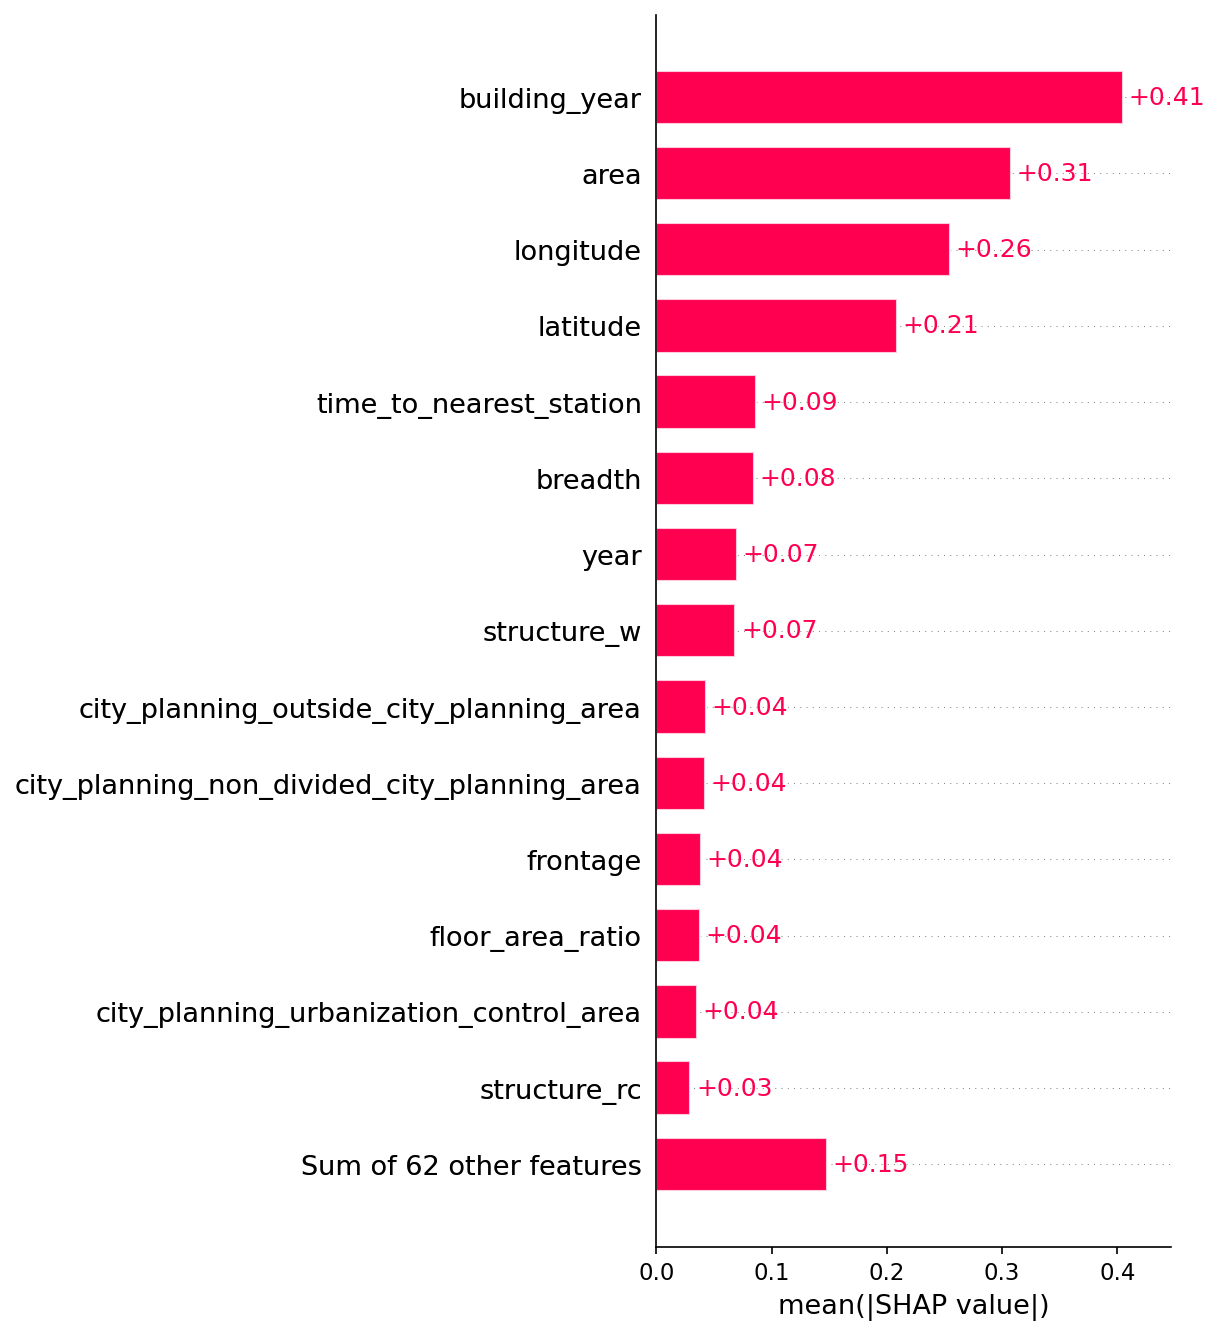
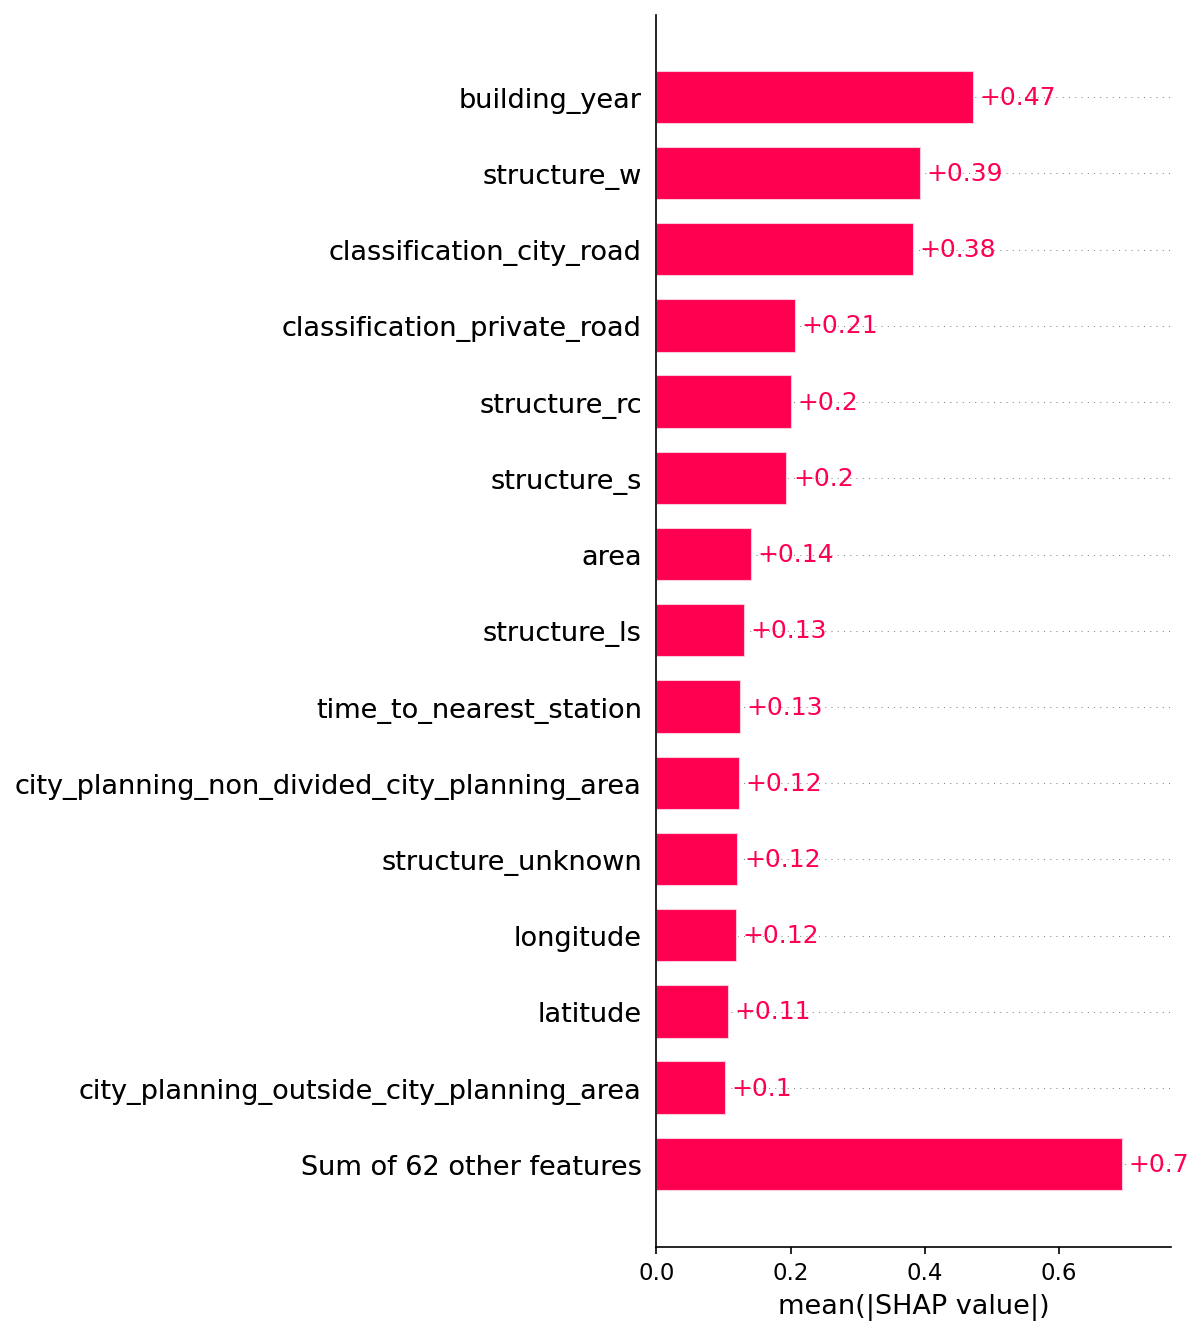
fix: shap erros with svr

diff --git a/src/interpretability/shap_analysis.py b/src/interpretability/shap_analysis.py
@@ -64,12 +64,48 @@ def _build_explainer(model, X_background: pd.DataFrame) -> shap.Explainer:
     return shap.Explainer(model.predict, X_background)
 
 
+def _as_single_output_explanation(shap_values: shap.Explanation) -> shap.Explanation:
+    """
+    Collapse SHAP's extra singleton output axis for single-target regressors.
+
+    Different explainers attach the spurious singleton axis to different
+    attributes. TreeExplainer can return 3-D ``values`` of shape
+    ``(n, features, 1)``, whereas LinearExplainer keeps ``values`` 2-D but
+    returns ``base_values`` of shape ``(n, 1)``. Either form breaks the slicer
+    used by ``shap.plots.scatter``/``waterfall``, so we normalise all of them
+    back to single-output shapes here.
+    """
+    values = np.asarray(shap_values.values)
+    if values.ndim == 3 and 1 in values.shape[1:]:
+        values = values[:, 0, :] if values.shape[1] == 1 else values[:, :, 0]
+
+    base_values = shap_values.base_values
+    if base_values is not None:
+        base_values = np.asarray(base_values)
+        if base_values.ndim == 2 and base_values.shape[1] == 1:
+            base_values = base_values[:, 0]
+
+    data = shap_values.data
+    if data is not None:
+        data = np.asarray(data)
+        if data.ndim == 3 and 1 in data.shape[1:]:
+            data = data[:, 0, :] if data.shape[1] == 1 else data[:, :, 0]
+
+    return shap.Explanation(
+        values=values,
+        base_values=base_values,
+        data=data,
+        feature_names=shap_values.feature_names,
+    )
+
+
 def compute_shap_values(model, X_sample: pd.DataFrame) -> shap.Explanation:
     """
     Build the explainer and return a SHAP Explanation object for `X_sample`.
     """
     explainer = _build_explainer(model, X_sample)
-    return explainer(X_sample)
+    return _as_single_output_explanation(explainer(X_sample))
+
 
 
 def _save_current_figure(output_dir: Union[Path, str], filename: str) -> Path:
@@ -123,8 +159,13 @@ def shap_dependence(
     Dependence (scatter) plot showing how `feature` drives its own contribution.
     """
     filename = filename or f"shap_dependence_{feature}.png"
+    feature_names = list(shap_values.feature_names)
+    if feature not in feature_names:
+        raise ValueError(f"Feature {feature!r} is not present in SHAP feature names.")
+    feature_idx = feature_names.index(feature)
+
     plt.figure()
-    shap.plots.scatter(shap_values[:, feature], show=False)
+    shap.plots.scatter(shap_values[:, feature_idx], show=False)
     return _save_current_figure(output_dir, filename)
 
 

diff --git a/src/config.py b/src/config.py
@@ -141,12 +141,12 @@ class Config:
     Immutable runtime configuration consumed by main.py and the pipeline modules.
     """
     seed: int = 42
-    n_trials: int = 25
+    n_trials: int = 1
     val_quantile: float = 0.70
     test_quantile: float = 0.85
     target_transform: str = "log1p"
     use_gpu: bool = True
-    models: Tuple[str, ...] = ("xgb", "lgbm", "rf")
+    models: Tuple[str, ...] = ("enet", "svr")
     # models: Tuple[str, ...] = ("xgb", "lgbm", "rf", "enet", "svr")
     log_level: str = "INFO"
     datasets_dir: Path = DATASETS_DIR

diff --git a/src/models/optimization.py b/src/models/optimization.py
@@ -72,7 +72,7 @@ class OptimizeRegressor:
         parameters_dir: Path = PARAMETERS_DIR,
     ):
         self.model_name = model_name
-        self.n_trials = n_trials
+        self.n_trials = 1 if model_name == "rf" else n_trials # sklearn RandomForest CV is very slow; always run a single trial.
         self.X_train = X_train
         self.y_train = y_train
         self.logger = logger
